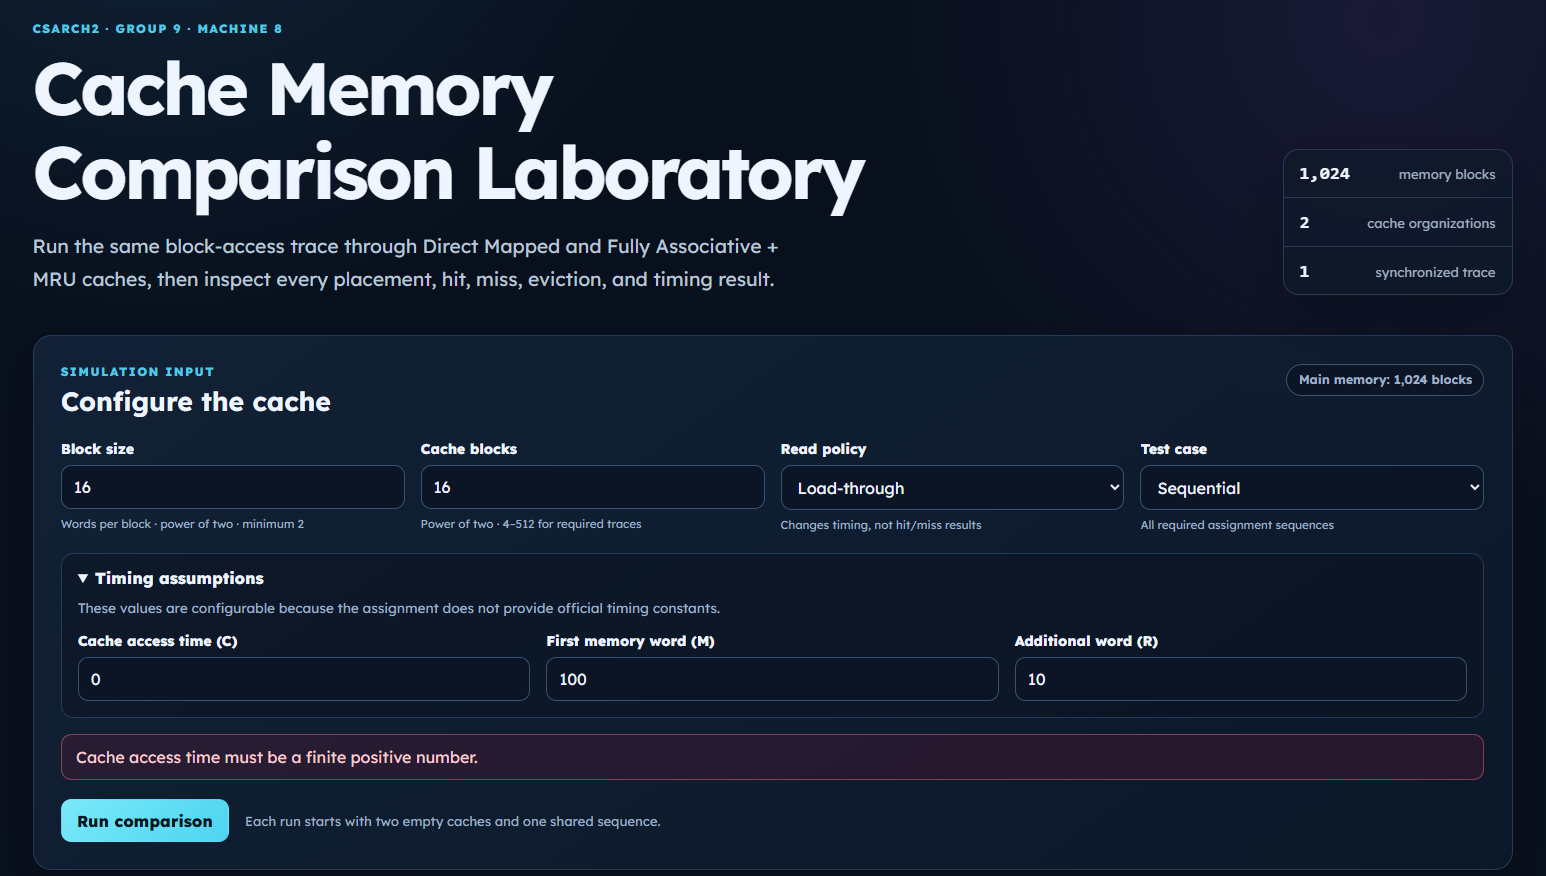
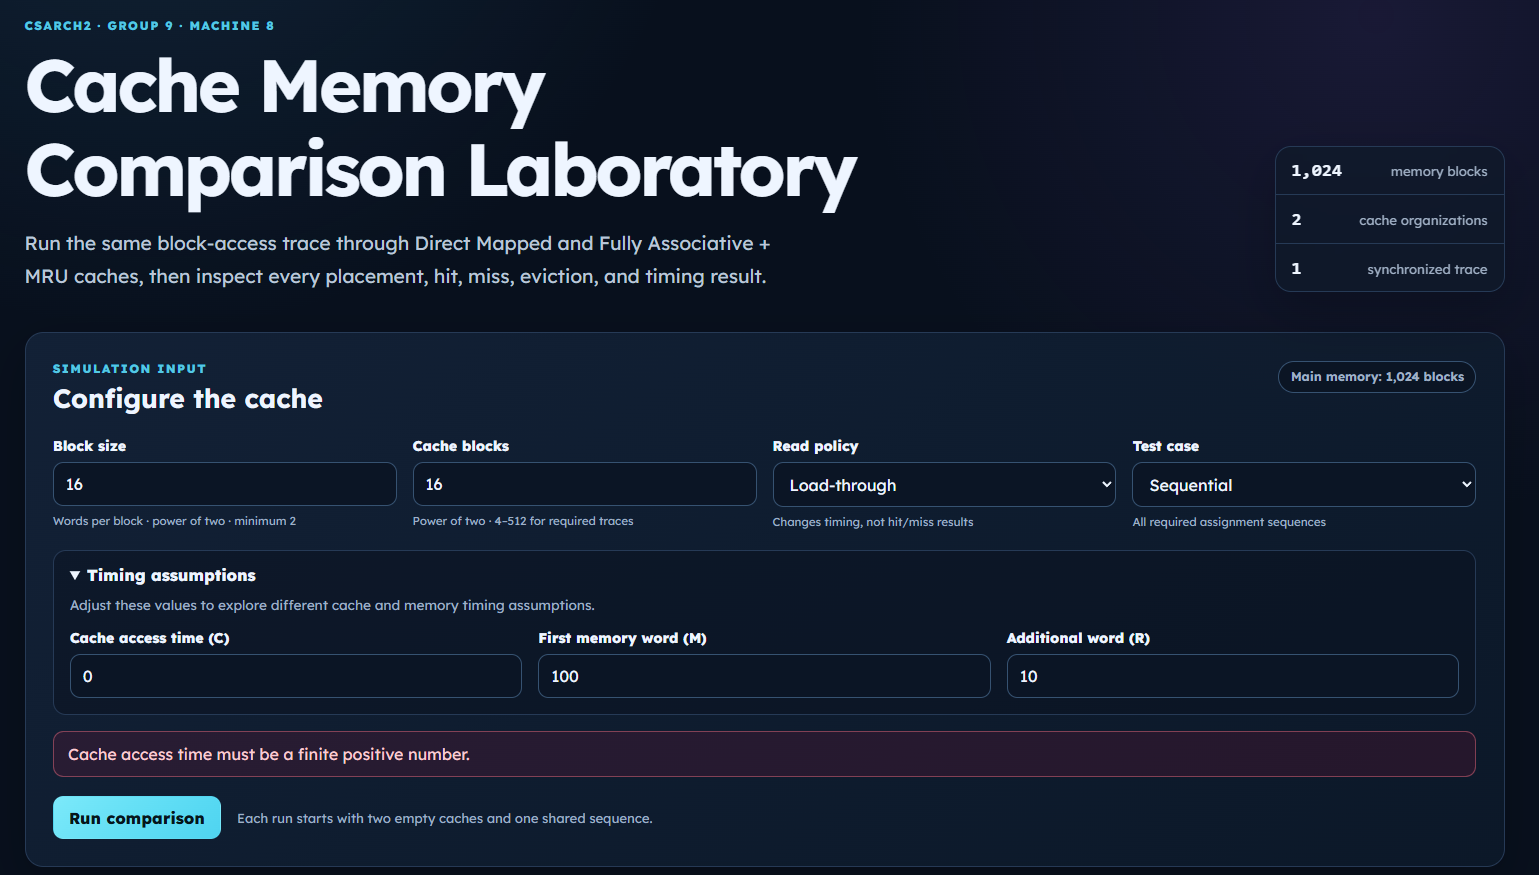
updated the readme

diff --git a/README.md b/README.md
@@ -247,11 +247,126 @@ supported cache size is 512 blocks.
 
 ### Invalid and Edge-Input tests
 
+#### I01 - Non-power-of-two block size
+
+Block size `3` is rejected because the block size must be a power of two and
+at least 2 words.
+
+![I01 - Non-power-of-two block size](docs/screenshots/I01.png)
+
+#### I02 - Non-power-of-two cache size
+
+Cache size `6` is rejected because the number of cache blocks must be a power
+of two and at least 4.
+
+![I02 - Non-power-of-two cache size](docs/screenshots/I02.png)
+
+#### I03 - Required trace exceeds main memory
+
+A cache size of `1024` is rejected for the Sequential test because its required
+`0` to `2n - 1` trace would exceed the 1,024-block main memory.
+
+![I03 - Required trace exceeds main memory](docs/screenshots/I03.png)
+
+#### I04 - Decimal block size
+
+Block size `2.5` is rejected because block sizes must be whole-number powers of
+two.
+
+![I04 - Decimal block size](docs/screenshots/I04.png)
+
+#### I05 - Zero cache-access time
+
+Cache-access time `0` is rejected because cache-access time must be a finite
+positive number.
+
+![I05 - Zero cache-access time](docs/screenshots/I05.png)
+
+#### I06 - Random seed above the allowed range
+
+Seed `4294967296` is rejected because the largest allowed seed is `4294967295`.
+
+![I06 - Random seed above the allowed range](docs/screenshots/I06.png)
+
+#### I07 - Blank Random seed
+
+A blank Random seed is safely treated as seed `0`, producing a complete
+64-access sequence without an error.
+
+![I07 - Blank Random seed becomes seed zero](docs/screenshots/I07.png)
+
 ### Cache-operation tests
 
 ### Statistical-Output tests
 
 ### Read-policy and timing tests
+
+The timing tests use cache-access time `C = 1 ns`, first-memory-word time
+`M = 100 ns`, additional-word time `R = 10 ns`, 16 cache blocks, and the
+Sequential sequence.
+
+#### T01 - Block size 16 with Load-through
+
+The first screenshot records the complete configuration used for the test.
+
+![T01-1 - Load-through configuration with block size 16](docs/screenshots/T01-1.png)
+
+The final statistics show an average access time of `101 ns` for Direct Mapped
+and `76 ns` for Fully Associative + MRU.
+
+![T01-2 - Load-through final statistics with block size 16](docs/screenshots/T01-2.png)
+
+The first trace entry is a `101 ns` miss for both organizations, matching
+`C + M = 1 + 100 = 101 ns`.
+
+![T01-3 - Load-through miss timing](docs/screenshots/T01-3.png)
+
+At Step 33, Direct Mapped records another `101 ns` miss while Fully Associative
++ MRU records a `1 ns` hit, matching the cache-hit time `C`.
+
+![T01-4 - Cache hit timing at Step 33](docs/screenshots/T01-4.png)
+
+#### T02 - Block size 16 with Non-load-through
+
+The configuration keeps the same sequence and timing values while changing
+only the read policy to Non-load-through.
+
+![T02-1 - Non-load-through configuration with block size 16](docs/screenshots/T02-1.png)
+
+The final statistics show an average access time of `252 ns` for Direct Mapped
+and `189.25 ns` for Fully Associative + MRU. The hit and miss counts remain the
+same as the Load-through run.
+
+![T02-2 - Non-load-through final statistics with block size 16](docs/screenshots/T02-2.png)
+
+The first trace entry is a `252 ns` miss for both organizations, matching
+`C + M + (B - 1)R + C = 1 + 100 + (15 x 10) + 1 = 252 ns`.
+
+![T02-3 - Non-load-through miss timing](docs/screenshots/T02-3.png)
+
+#### T03 - Block size 32 with Load-through
+
+Increasing the block size to 32 does not change the Load-through miss time.
+
+![T03-1 - Load-through configuration with block size 32](docs/screenshots/T03-1.png)
+
+The average times remain `101 ns` for Direct Mapped and `76 ns` for Fully
+Associative + MRU.
+
+![T03-2 - Load-through statistics with block size 32](docs/screenshots/T03-2.png)
+
+#### T04 - Block size 32 with Non-load-through
+
+With a larger block, Non-load-through must wait for more additional-word
+transfers.
+
+![T04-1 - Non-load-through configuration with block size 32](docs/screenshots/T04-1.png)
+
+The miss time becomes
+`1 + 100 + (31 x 10) + 1 = 412 ns`. The final averages are `412 ns` for Direct
+Mapped and `309.25 ns` for Fully Associative + MRU.
+
+![T04-2 - Non-load-through statistics with block size 32](docs/screenshots/T04-2.png)
 
 ## How to use the simulator
 
